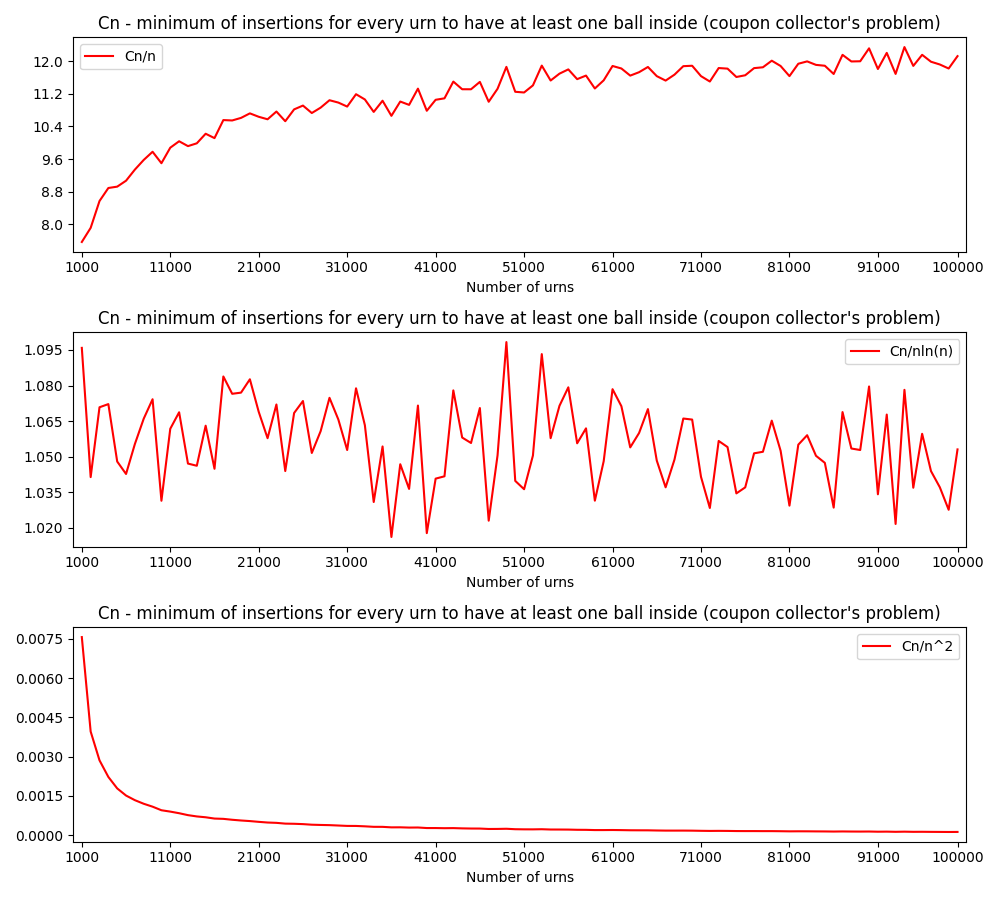
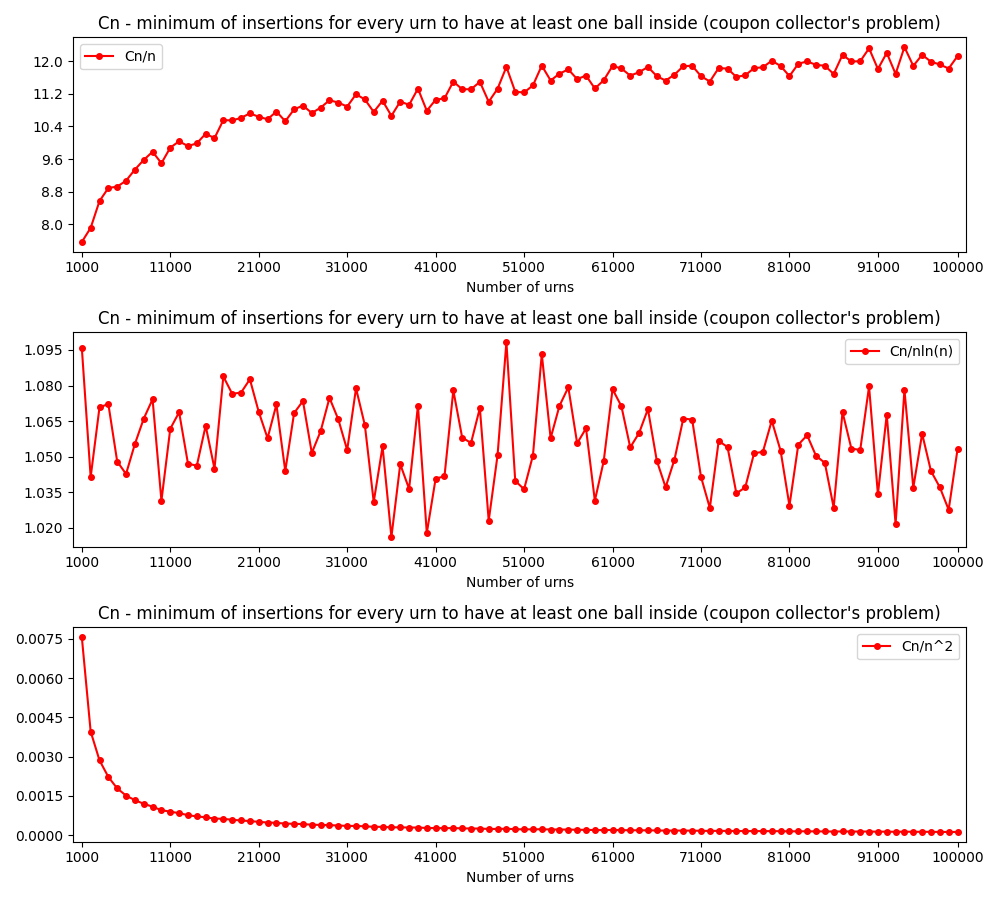
Modified task 1 plots + READMEs

diff --git a/zad1/plot.py b/zad1/plot.py
@@ -57,7 +57,7 @@ def scatter_avg_plot(data: list, axes, title: str):
 def mapped_avg_plot(data: list, axes, title: str, func, func_label: str):
   axes.set(title=title)
   axes.set_xlabel("Number of urns")
-  avg_mode = 'r-' 
+  avg_mode = 'ro-' 
   avgs = avg_y_axis(data[1])
   mapped_avgs = list(map_y_axis(func, x_axis=data[0], y_axis=avgs))
 

diff --git a/zad3/README.md b/zad3/README.md
@@ -1,9 +1,12 @@
 ## Run with:
+
 ```
 python3 setup.py build_ext --inplace
 python3 test.py
 ```
+
 ## Configuration:
+
 In [test.py](test.py) you can change the variables of the simulation.
 In my [implementation](sim_core.py) of task 3
 I've defined length of permutated arrays as 
@@ -14,12 +17,14 @@ To change the difference between number of elements in permutated array between 
 **Count** is the amount of processess which will be run on your computer to execute this simulation (e.g: running 5 processes with k=10 will yield 5 different jsons of 10 tests for every n specified).
 
 ## Average time of execution for given k:
+
 * $k = 100$ ~8h
 * $k = 50$ ~5h
 * $k = 10$ ~42min
 * $k = 1$ ~6min
 
 ## Plot results with:
+
 ```
 python3 plot.py [target_dir] [k]
 E.g: python3 plot.py results/31-12-2021_14\:35\:56/ 100

diff --git a/zad2/README.md b/zad2/README.md
@@ -1,9 +1,12 @@
 ## Run with:
+
 ```
 python3 setup.py build_ext --inplace
 python3 test.py
 ```
+
 ## Configuration:
+
 In [test.py](test.py) you can change the variables of the simulation.
 In my [implementation](sim_core.py) of task 2 I've defined current number of urns as 
 $n * step$, where $step$ is the difference of number of urns between each nth iteration.
@@ -14,6 +17,7 @@ To change the difference between number of urns between each nth iteration chang
 **Count** is the amount of processess which will be run on your computer to execute this simulation (e.g: running 5 processes with k=10 will yield 5 different jsons of 10 tests for every n specified).
 
 ## Plot results with:
+
 ```
 python3 plot.py [target_dir]
 E.g: python3 plot.py results/31-12-2021_14\:35\:56/

diff --git a/zad1/README.md b/zad1/README.md
@@ -1,8 +1,10 @@
 ## Run with:
+
 ```
 python3 setup.py build_ext --inplace
 python3 test.py
 ```
+
 ## Configuration:
 In [test.py](test.py) you can change the variables of the simulation.
 In my [implementation](sim_core.py) of task 1 I've defined current number of urns as 
@@ -13,6 +15,7 @@ To change the difference between number of urns between each nth iteration chang
 **Count** is the amount of processess which will be run on your computer to execute this simulation (e.g: running 5 processes with k=10 will yield 5 different jsons of 10 tests for every n specified).
 
 ## Plot results with:
+
 ```
 python3 plot.py [target_dir]
 E.g: python3 plot.py results/31-12-2021_14\:35\:56/
